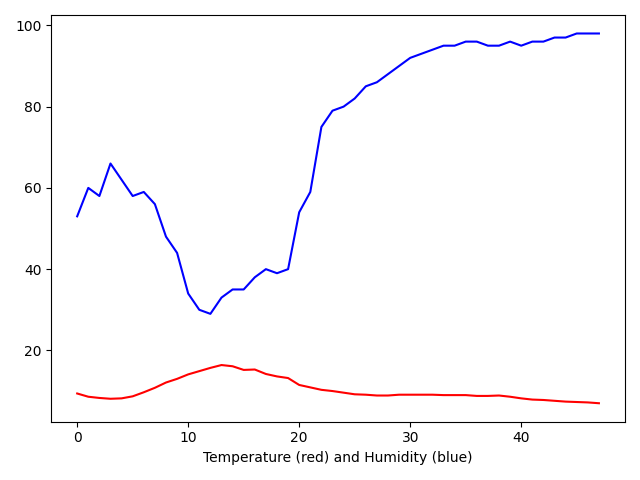
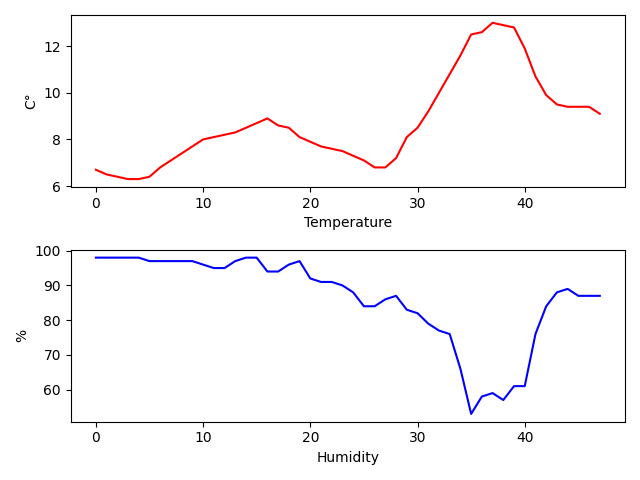
la till flask och gjorde att man kunde söka på städer. Använde render_template() för att skapa hemsidan med formuläret

diff --git a/templates/selection.html b/templates/selection.html
@@ -1,0 +1,43 @@
+<!DOCTYPE html>
+<html>
+<head>
+    <title>Weather Forecast Site</title>
+</head>
+<body>
+    <h2>Select city or coordinates for forecast</h2>
+    <form method="POST" action="/request_form">
+        <input type="text" name="city" placeholder="City: ">
+        <p> Or </p>
+        <input type="text" name="lat" placeholder="Latitude: ">
+        <input type="text" name="long" placeholder="Longitude: ">
+        <br>
+        <label>How many days should the forecast be?</label>
+        <input type="text" name="forecast_days">
+        <br>
+
+        <h2>Select parameters for forecast</h2> 
+        <div id="requested_info">
+            <label>Average temperature</label>
+            <input type="checkbox" name="temperature_2m_max,temperature_2m_mean,temperature_2m_min"><br>
+            <label>Humidity</label>
+            <input type="checkbox" name="hourly-relative_humidity_2m"><br>
+            <label>Chance of rain</label>
+            <input type="checkbox" name="precipitation_probability_max,precipitation_probability_mean,precipitation_probability_min"><br>
+            <label>Sum of rain and snow</label>
+            <input type="checkbox" name="rain_sum,snowfall_sum"><br>
+            <label>Time of sunrise and sunset</label>
+            <input type="checkbox" name="sunrise,sunset"><br>
+            <label>Maximum windspeed</label>
+            <input type="checkbox" name="wind_speed_10m_max"><br>
+            <label>Wind direction</label>
+            <input type="checkbox" name="wind_direction_10m_dominant"><br>
+            <label>Maximum UV-index</label>
+            <input type="checkbox" name="uv_index_max"><br>
+            <label>Air pressure</label>
+            <input type="checkbox" name="pressure_msl,surface_pressure"><br>
+
+        </div>
+        <input type="submit" value="Submit">
+    </form>
+</body>
+</html>

diff --git a/weather_forecast.py b/weather_forecast.py
@@ -1,30 +1,96 @@
 import requests
 import json
 import matplotlib.pyplot as plt
+from flask import Flask, render_template, request
+
+app = Flask(__name__)
+
+forecast_info = "./forecast.txt"
 
 base_url = "https://api.open-meteo.com/v1/forecast"
 
-def get_forecast():
-    url = "https://api.open-meteo.com/v1/forecast"
-    
-    params = {  "latitude": 59.33,
-                "longitude": 18.07,
-                "hourly": "temperature_2m,relative_humidity_2m",
-                "forecast_days": 2
+
+#lat, long, parameters, days
+def get_forecast(): 
+    with open("forecast.txt") as forecast_info:
+        text = json.load(forecast_info)
+        global data
+        if not text:
+            with open("forecast.txt", "w") as forecast_info:
+                url = "https://api.open-meteo.com/v1/forecast"
+                
+                params = {  "latitude": 59.33,
+                            "longitude": 18.07,
+                            "hourly": "temperature_2m,relative_humidity_2m",
+                            "daily": "temperature_2m_mean",
+                            "forecast_days": 5 #days
+                }
+                response = requests.get(url, params=params)
+                data = response.json()
+                forecast_info.write(json.dumps(data))
+        else:
+            data = text
+    #print(data)
+
+def get_geolocation(name):
+    search_url = "https://geocoding-api.open-meteo.com/v1/search"
+
+    params = {
+        "name": name,
+        "count": 1,
+        "language": "en",
+        "format": "json"
     }
-    response = requests.get(url, params=params)
-    data = response.json()
-    
+    response = requests.get(search_url, params=params)
+    geolocation_data = response.json()
+    return geolocation_data
+
+
+def plot_graphs():
     #print(data["hourly"])
+    plt.subplot(2, 1, 1)
     plt.plot(data["hourly"]["temperature_2m"], color = "red")
+    plt.xlabel("Temperature")
+    plt.ylabel("C°")
+
+    plt.subplot(2, 1, 2)
     plt.plot(data["hourly"]["relative_humidity_2m"], color = "blue")
+    plt.xlabel("Humidity")
+    plt.ylabel("%")
+
     #detta är FEL, använd flera grafer och klistra sedan ihop dem till en stor png som användaren kollar på (alternativt en hemsida)
-    plt.xlabel("Temperature (red) and Humidity (blue)")
     #plt.show()
     plt.tight_layout()
     plt.savefig("forecast.png")
 
+@app.route("/")
+def home():
+    return render_template("selection.html")
 
-get_forecast()
+
+@app.route("/request_form", methods=["POST"])
+def get_request():
+    position = {}
+    requested_data = request.form.to_dict()
+    for key in ["city", "lat", "long"]:
+        if key in requested_data:
+            position[key] = requested_data.pop(key)
+    #print(position)
+    #print(requested_data)
+    if position["city"]:
+        coordinates = get_geolocation(position["city"])
+        print(coordinates)
+        get_forecast(coordinates["results"]["latitude"], coordinates["results"]["longitude"], requested_data, request.form["forecast_days"])
+    elif position["lat"] and position["long"]:
+        get_forecast(position["lat"], position["long"], requested_data, request.form["forecast_days"])
+    else:
+        return render_template("selection.html")
+    return render_template("weather.html")
+
+
+#get_forecast()
+
+if __name__ == "__main__":
+    app.run(debug=True)
 
 #status_code

diff --git a/README.md b/README.md
@@ -1,0 +1,1 @@
+# flask
